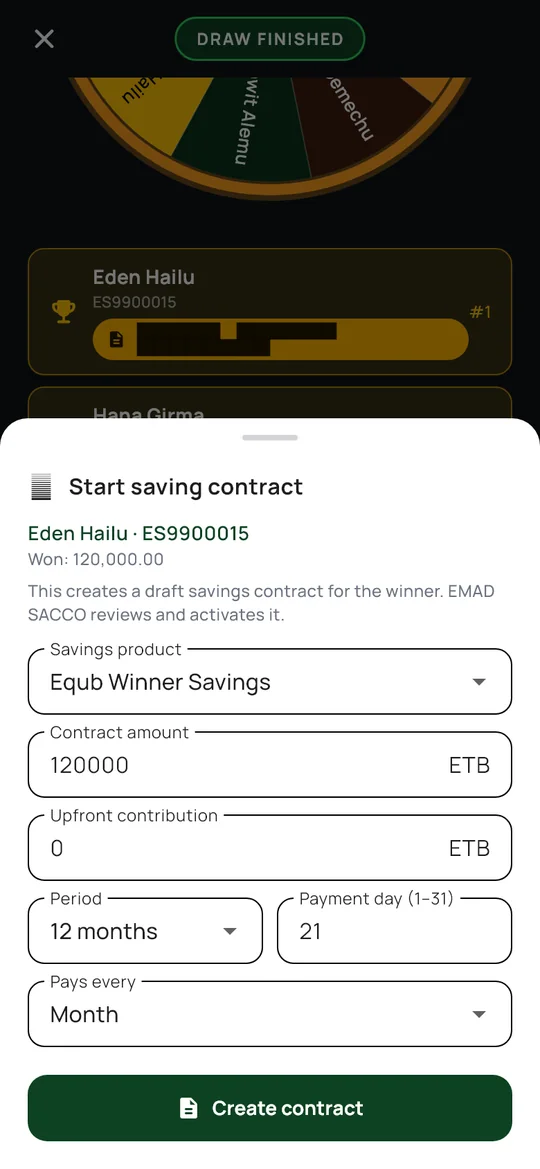
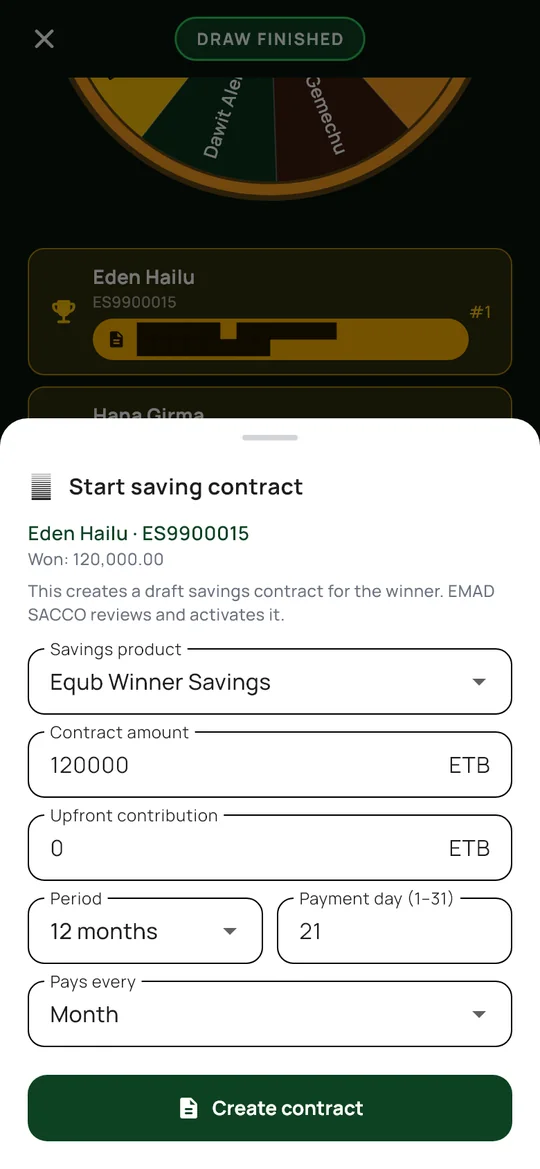
landing: draw screens on the app's dark green background
Refreshes the three draw screenshots from the member app, whose draw
screen now uses the same dark green as the rest of the app.

diff --git a/src/app/landingpage/device.tsx b/src/app/landingpage/device.tsx
@@ -18,7 +18,7 @@ export const GREEN_DEEP = "hsl(149 74% 16%)";
 export type Shot = { src: string; bg: string; light?: boolean };
 
 const DARK = "#08140e";
-const DRAW = "#101418";
+const DRAW = "#08140e";
 const LIGHT = "#f6f8f7";
 
 /** Screens that exist per language fall back to English for other locales. */
@@ -30,7 +30,7 @@ export const shots = {
   payments: (): Shot => ({ src: "payments", bg: LIGHT, light: true }),
   drawLive: (): Shot => ({ src: "draw-live", bg: DRAW }),
   drawWinners: (): Shot => ({ src: "draw-winners", bg: DRAW }),
-  drawContract: (): Shot => ({ src: "draw-contract", bg: "#07090b" }),
+  drawContract: (): Shot => ({ src: "draw-contract", bg: "#040906" }),
   myEqubs: (l: string): Shot => ({ src: `my-equbs-${lang(l)}`, bg: DARK }),
   hajj: (l: string): Shot => ({ src: `hajj-${lang(l)}`, bg: DARK }),
   umrah: (l: string): Shot => ({ src: `umrah-${lang(l)}`, bg: DARK }),
